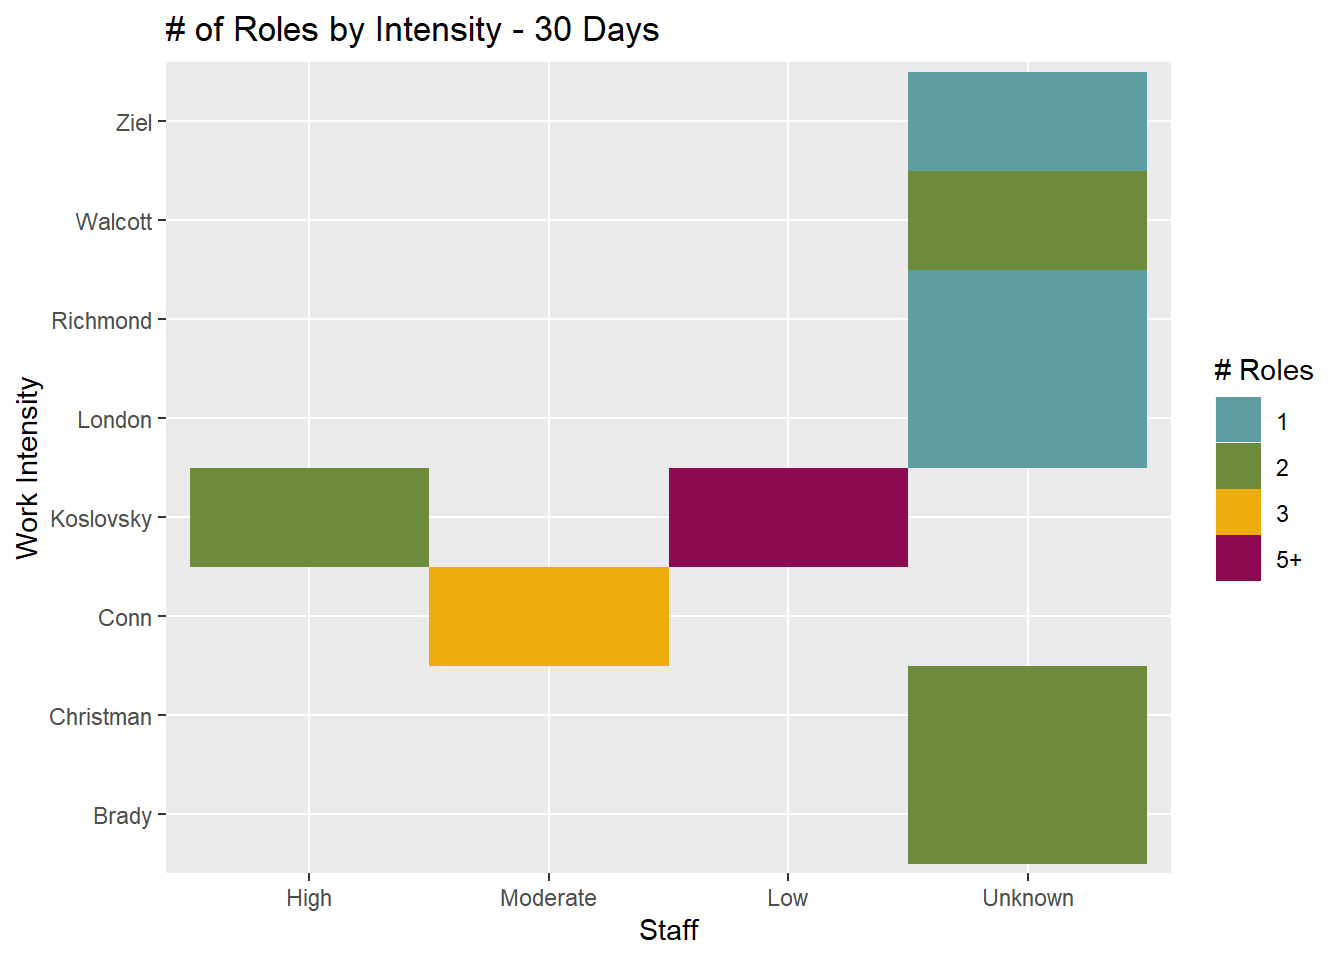
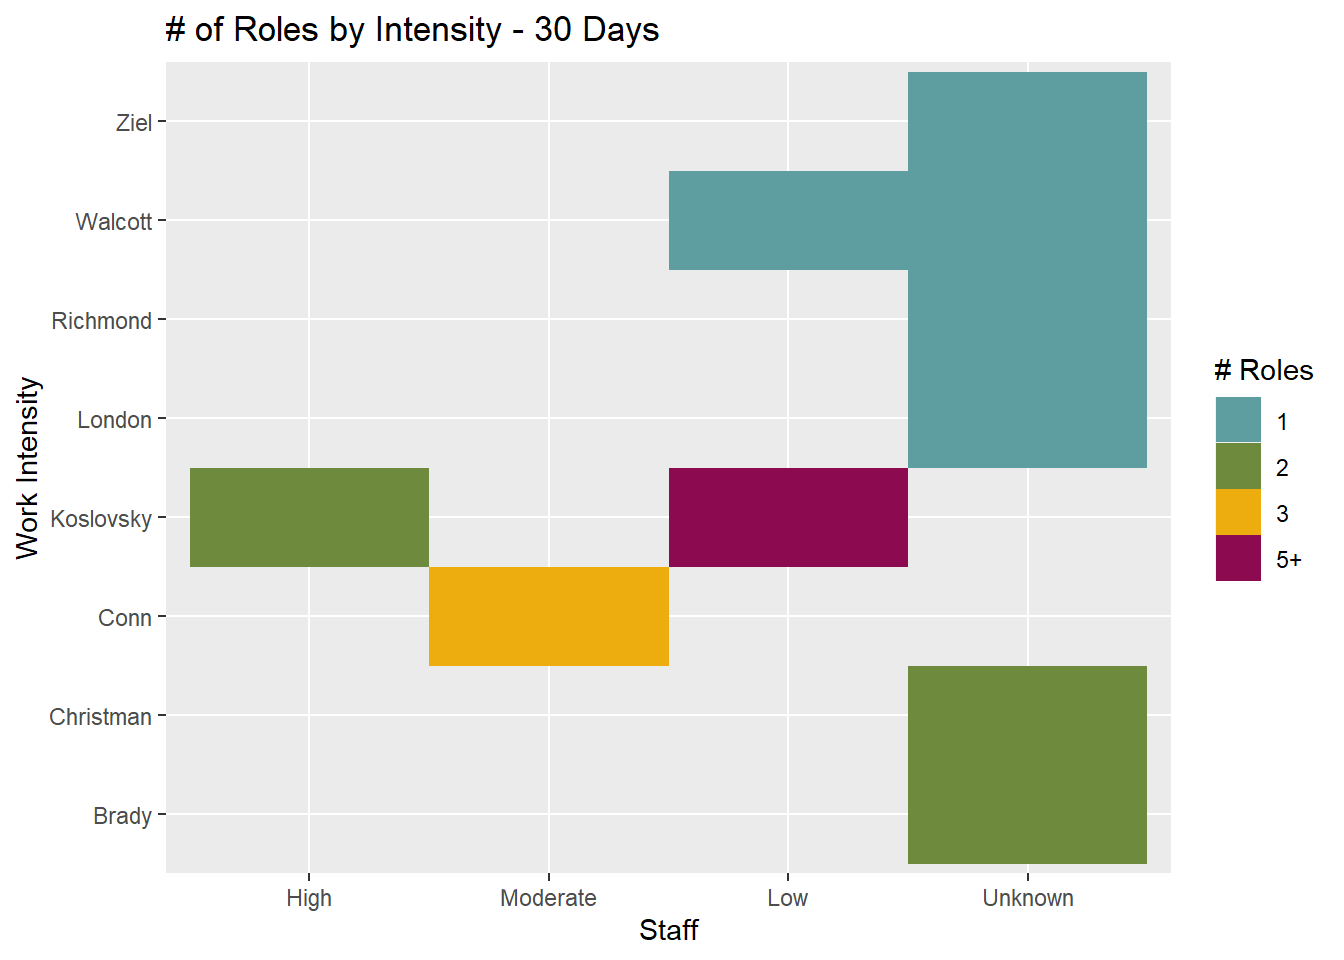
Demo version

Changed region(s): [[0.5, 0.1562, 0.875, 0.2812]]

diff --git a/SchedulingReport/SchedulingReport.html b/SchedulingReport/SchedulingReport.html
@@ -49,7 +49,7 @@ ul.task-list li input[type="checkbox"] {
   <li><a href="#work-due-soon" id="toc-work-due-soon" class="nav-link" data-scroll-target="#work-due-soon">Work Due Soon</a></li>
   <li><a href="#overdue-work" id="toc-overdue-work" class="nav-link" data-scroll-target="#overdue-work">Overdue Work</a></li>
   <li><a href="#potential-bottlenecks" id="toc-potential-bottlenecks" class="nav-link" data-scroll-target="#potential-bottlenecks">Potential Bottlenecks</a></li>
-  <li><a href="#planned-work-by-action-lead" id="toc-planned-work-by-action-lead" class="nav-link" data-scroll-target="#planned-work-by-action-lead">Planned Work by Action Lead</a>
+  <li><a href="#planned-work-by-pep-staff" id="toc-planned-work-by-pep-staff" class="nav-link" data-scroll-target="#planned-work-by-pep-staff">Planned Work by PEP Staff</a>
   <ul class="collapse">
   <li><a href="#brady" id="toc-brady" class="nav-link" data-scroll-target="#brady">Brady</a></li>
   <li><a href="#christman" id="toc-christman" class="nav-link" data-scroll-target="#christman">Christman</a></li>
@@ -184,8 +184,8 @@ ul.task-list li input[type="checkbox"] {
 </div>
 </div>
 </section>
-<section id="planned-work-by-action-lead" class="level1">
-<h1>Planned Work by Action Lead</h1>
+<section id="planned-work-by-pep-staff" class="level1">
+<h1>Planned Work by PEP Staff</h1>
 <p>Today’s date is shown as a grey vertical line on the figure.</p>
 <section id="brady" class="level2">
 <h2 class="anchored" data-anchor-id="brady">Brady</h2>
@@ -725,7 +725,7 @@ ul.task-list li input[type="checkbox"] {
 <td style="text-align: left;">2024-09-24</td>
 <td style="text-align: left;">2025-03-31</td>
 <td style="text-align: left;">In progress</td>
-<td style="text-align: left;">NA</td>
+<td style="text-align: left;">Low</td>
 </tr>
 </tbody>
 </table>
